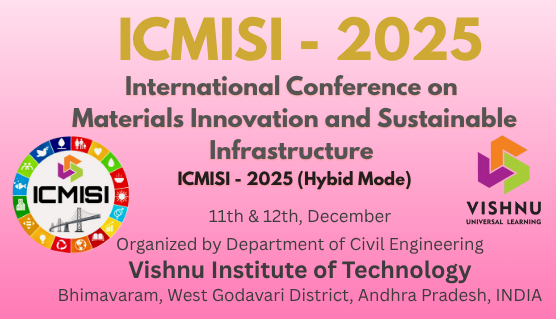
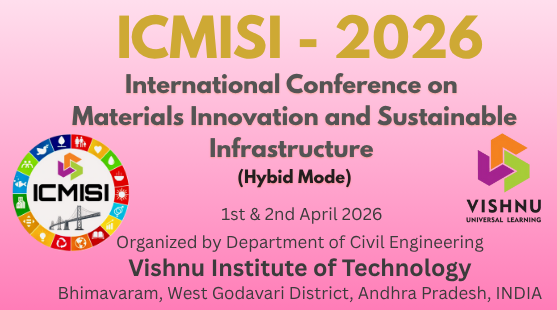
Update dates

diff --git a/src/pages/ImportantDatesPage.tsx b/src/pages/ImportantDatesPage.tsx
@@ -30,7 +30,6 @@ const DateItem: React.FC<DateItemProps> = ({
           ? "bg-red-50 border border-red-200"
           : "bg-white border border-gray-200 hover:border-conference-orange/30 hover:shadow-md"
       }`}
-
     >
       <div
         className={`p-2 rounded-full mr-4 ${
@@ -90,20 +89,16 @@ const ImportantDatesPage: React.FC = () => {
     <>
       <SEO
         title="Important Dates"
-        description="Key deadlines and important dates for ICMISI-2025, including submission deadlines, notification dates, and conference dates."
+        description="Key deadlines and important dates for ICMISI-2026, including submission deadlines, notification dates, and conference dates."
         canonical="/important-dates"
       />
       <div className="bg-gradient-to-r from-conference-green/90 to-conference-purple/90 text-white py-10">
         <div className="container mx-auto px-4 text-center">
-          <h1
-            className="text-3xl md:text-4xl font-bold mb-4"
-          >
+          <h1 className="text-3xl md:text-4xl font-bold mb-4">
             Important Dates
           </h1>
-          <p
-            className="max-w-3xl mx-auto text-lg opacity-90"
-          >
-            Key deadlines and milestones for ICMISI-2025
+          <p className="max-w-3xl mx-auto text-lg opacity-90">
+            Key deadlines and milestones for ICMISI-2026
           </p>
         </div>
       </div>
@@ -113,43 +108,45 @@ const ImportantDatesPage: React.FC = () => {
           <div className="mb-8 text-center">
             <p className="text-gray-700">
               Please note all the following important dates related to
-              ICMISI-2025. Mark your calendars and ensure timely submissions to
+              ICMISI-2026. Mark your calendars and ensure timely submissions to
               avoid any last-minute complications.
             </p>
           </div>
 
           <div className="space-y-4 mb-12">
-
-
             <DateItem
-              title="Call for papers"
-              date="May 15, 2025"
-              delay={100}
+              title="Call for Papers Announcement"
+              date="August 1, 2025"
             />
-
 
             <DateItem
               title="Submission of full-length Paper"
-              date="July 31, 2025"
-              delay={200}
+              date="October 31, 2025"
             />
 
             <DateItem
-              title="Acceptance of full-length Paper"
-              date="September 12, 2025"
-              delay={200}
+              title="Notfication of Acceptance"
+              date="December 20, 2025"
             />
 
+            <DateItem
+              title="Camera Ready Paper Submission"
+              date="January 25, 2026"
+            />
 
             <DateItem
               title="End of registration"
-              date="November 12, 2025"
-              isUpcoming={true}
-              delay={300}
+              date="Febraury 10, 2026"
+              isCritical={true}
             />
 
-          </div>
+            <DateItem
+              title="Conference Dates"
+              date="April 1-2, 2026"
+              isUpcoming={true}
 
+            />
+          </div>
         </div>
       </div>
     </>

diff --git a/src/pages/RegistrationPage.tsx b/src/pages/RegistrationPage.tsx
@@ -14,7 +14,7 @@ const RegistrationPage: React.FC = () => {
     <>
       <SEO
         title="Registration"
-        description="Register for ICMISI-2025. Early bird and regular registration fees for academicians, industry professionals, students, and attendees."
+        description="Register for ICMISI-2026. Early bird and regular registration fees for academicians, industry professionals, students, and attendees."
         canonical="/registration"
       />
       <div className="bg-gradient-to-r from-conference-orange/90 to-conference-green/90 text-white py-10">
@@ -30,7 +30,7 @@ const RegistrationPage: React.FC = () => {
             data-aos="fade-up"
             data-aos-delay="200"
           >
-            Join us at ICMISI-2025 for an enriching experience
+            Join us at ICMISI-2026 for an enriching experience
           </p>
         </div>
       </div>
@@ -42,7 +42,7 @@ const RegistrationPage: React.FC = () => {
               Registration Information
             </h2>
             <p className="text-gray-700 mb-6">
-              Registration for ICMISI-2025 includes access to all conference
+              Registration for ICMISI-2026 includes access to all conference
               sessions, conference materials, coffee breaks, lunches during the
               conference days, and a certificate of participation.
             </p>
@@ -65,10 +65,10 @@ const RegistrationPage: React.FC = () => {
                         Category
                       </th>
                       <th className="py-3 px-4 text-left font-semibold text-gray-700 border-b">
-                        INDIA (Ends on: 05 AUG 2025)
+                        INDIA (Ends on: Febraury 10, 2026)
                       </th>
                       <th className="py-3 px-4 text-left font-semibold text-gray-700 border-b">
-                        FOREIGN (Ends on: 05 AUG 2025)
+                        FOREIGN (Ends on: February 10, 2026)
                       </th>
                     </tr>
                   </thead>

diff --git a/src/pages/SponsorsPage.tsx b/src/pages/SponsorsPage.tsx
@@ -123,7 +123,7 @@ const SponsorsPage: React.FC = () => {
     <>
       <SEO 
         title="Sponsors" 
-        description="ICMISI-2025 is proudly sponsored by leading organizations in the fields of sustainable energy and advanced manufacturing systems." 
+        description="ICMISI-2026 is proudly sponsored by leading organizations in the fields of sustainable energy and advanced manufacturing systems." 
         canonical="/sponsors"
       />
       <div className="bg-gradient-to-r from-conference-green/90 to-conference-orange/90 text-white py-10">
@@ -132,7 +132,7 @@ const SponsorsPage: React.FC = () => {
             Our Sponsors
           </h1>
           <p className="max-w-3xl mx-auto text-lg opacity-90" data-aos="fade-up" data-aos-delay="200">
-            ICMISI-2025 is supported by leading organizations in industry and academia
+            ICMISI-2026 is supported by leading organizations in industry and academia
           </p>
         </div>
       </div>
@@ -146,7 +146,7 @@ const SponsorsPage: React.FC = () => {
         <div className="max-w-5xl mx-auto">
           <div className="text-center mb-12" data-aos="fade-up">
             <p className="text-gray-700 mb-8">
-              We extend our sincere gratitude to all our sponsors for their generous support in making ICMISI-2025 a success. Their contributions enable us to organize a high-quality conference and provide a platform for researchers and professionals to share knowledge and innovations.
+              We extend our sincere gratitude to all our sponsors for their generous support in making ICMISI-2026 a success. Their contributions enable us to organize a high-quality conference and provide a platform for researchers and professionals to share knowledge and innovations.
             </p>
             <div className="inline-flex flex-wrap justify-center gap-2">
               <span className="inline-flex items-center px-3 py-1 rounded-full text-sm bg-gray-200 text-gray-800">

diff --git a/src/pages/ContactPage.tsx b/src/pages/ContactPage.tsx
@@ -17,7 +17,7 @@ const ContactPage: React.FC = () => {
     <>
       <SEO
         title="Contact Us"
-        description="Contact the organizers of ICMISI-2025 for any queries related to the conference, paper submissions, registration, or sponsorship."
+        description="Contact the organizers of ICMISI-2026 for any queries related to the conference, paper submissions, registration, or sponsorship."
         canonical="/contact"
       />
       <div className="bg-gradient-to-r from-conference-orange/90 to-conference-purple/90 text-white py-10">
@@ -33,7 +33,7 @@ const ContactPage: React.FC = () => {
             data-aos="fade-up"
             data-aos-delay="200"
           >
-            Get in touch with the ICMISI-2025 organizing team
+            Get in touch with the ICMISI-2026 organizing team
           </p>
         </div>
       </div>
@@ -46,7 +46,7 @@ const ContactPage: React.FC = () => {
                 Contact Information
               </h2>
               <p className="text-gray-700 mb-8">
-                If you have any questions about ICMISI-2025, please don't
+                If you have any questions about ICMISI-2026, please don't
                 hesitate to contact us. Our team is here to assist you with any
                 queries related to paper submissions, registration, venue, or
                 other conference matters.

diff --git a/src/pages/CallForPapersPage.tsx b/src/pages/CallForPapersPage.tsx
@@ -159,7 +159,7 @@ const CallForPapersPage: React.FC = () => {
     <>
       <SEO
         title="Call for Papers"
-        description="Submit your research papers to ICMISI-2025 on topics related to sustainable energy and advanced manufacturing systems."
+        description="Submit your research papers to ICMISI-2026 on topics related to sustainable energy and advanced manufacturing systems."
         canonical="/call-for-papers"
       />
       <div className="bg-gradient-to-r from-conference-green/90 to-conference-orange/90 text-white py-10">
@@ -175,7 +175,7 @@ const CallForPapersPage: React.FC = () => {
             data-aos="fade-up"
             data-aos-delay="200"
           >
-            Submit your research contributions to ICMISI-2025
+            Submit your research contributions to ICMISI-2026
           </p>
         </div>
       </div>
@@ -187,7 +187,7 @@ const CallForPapersPage: React.FC = () => {
               Conference Tracks
             </h2>
             <p className="text-gray-700 mb-6">
-              ICMISI-2025 welcomes papers across a wide range of topics related
+              ICMISI-2026 welcomes papers across a wide range of topics related
               to sustainable energy and advanced manufacturing systems. Click on
               each track to view detailed topics:
             </p>

diff --git a/src/pages/SpeakersPage.tsx b/src/pages/SpeakersPage.tsx
@@ -165,7 +165,7 @@ const SpeakersPage: React.FC = () => {
     <>
       <SEO
         title="Speakers"
-        description="Meet the distinguished speakers of ICMISI-2025, including plenary and keynote speakers from around the world."
+        description="Meet the distinguished speakers of ICMISI-2026, including plenary and keynote speakers from around the world."
         canonical="/speakers"
       />
       <div className="bg-gradient-to-r from-conference-purple/90 to-conference-orange/90 text-white py-10">
@@ -183,7 +183,7 @@ const SpeakersPage: React.FC = () => {
         <div className="max-w-5xl mx-auto">
           <div className="text-center mb-8" data-aos="fade-up">
             <p className="text-gray-700 mb-6">
-              ICMISI-2025 will feature distinguished speakers from academia and industry, sharing insights on smart infrastructure, construction, and energy systems.
+              ICMISI-2026 will feature distinguished speakers from academia and industry, sharing insights on smart infrastructure, construction, and energy systems.
             </p>
             <div className="inline-flex flex-wrap justify-center gap-2">
               <span className="inline-flex items-center px-3 py-1 rounded-full text-sm bg-conference-purple text-white">

diff --git a/src/components/home/AboutConference.tsx b/src/components/home/AboutConference.tsx
@@ -25,8 +25,8 @@ const AboutConference: React.FC = () => {
             <p className="text-gray-700 mb-4">
               Civil Engineering department at Vishnu Institute of
               Technology-Bhimavaram is organizing International Conference on
-              Materials Innovation and Sustainable Infrastructure (ICMISI 2025)
-              on 11th & 12th, December 2025. Sustainable infrastructure is
+              Materials Innovation and Sustainable Infrastructure (ICMISI 2026)
+              on 1st & 2nd April 2026. Sustainable infrastructure is
               crucial for mitigating environmental challenges, such as climate
               change, resource depletion, and pollution.
             </p>
@@ -74,9 +74,9 @@ const AboutConference: React.FC = () => {
               ></iframe>
               <div className="absolute -bottom-6 -left-6 bg-white p-4 rounded-lg shadow-lg hidden md:block">
                 <div className="text-conference-purple font-bold text-xl">
-                  11-12
+                 1st - 2nd
                 </div>
-                <div className="text-gray-700">December 2025</div>
+                <div className="text-gray-700">April 2026</div>
               </div>
             </div>
           </div>

diff --git a/src/pages/VenuePage.tsx b/src/pages/VenuePage.tsx
@@ -41,7 +41,7 @@ const VenuePage: React.FC = () => {
     <>
       <SEO
         title="Venue"
-        description="ICMISI-2025 will be held at Vishnu Institute of Technology (VIT), Bhimavaram, Andhra Pradesh, India from 11th–13th September 2025."
+        description="ICMISI-2026 will be held at Vishnu Institute of Technology (VIT), Bhimavaram, Andhra Pradesh, India from 1st & 2nd April 2026."
         canonical="/venue"
       />
       <div className="bg-gradient-to-r from-conference-orange/90 to-conference-purple/90 text-white py-10">
@@ -73,7 +73,7 @@ const VenuePage: React.FC = () => {
                 </h2>
               </div>
               <p className="text-gray-700 mb-4">
-                ICMISI-2025 will be held at the beautiful campus of Vishnu Institute of Technology (VIT), located in Bhimavaram, Andhra Pradesh, India.
+                ICMISI-2026 will be held at the beautiful campus of Vishnu Institute of Technology (VIT), located in Bhimavaram, Andhra Pradesh, India.
               </p>
               <p className="text-gray-700 mb-4">
                 The venue provides modern conference facilities, comfortable accommodations, and a serene environment perfect for academic discussions and networking.

diff --git a/index.html b/index.html
@@ -5,9 +5,9 @@
   <meta charset="UTF-8" />
   <link rel="icon" type="image" href="/icmisi.png" />
   <meta name="viewport" content="width=device-width, initial-scale=1.0" />
-  <title>ICMISI-2025 </title>
+  <title>ICMISI-2026 </title>
   <meta name="description"
-    content="Civil Engineering department at Vishnu Institute of Technology-Bhimavaram is organizing International Conference on Materials Innovation and Sustainable Infrastructure (ICMISI 2025) on 11th & 12th, December 2025. Sustainable infrastructure is crucial for mitigating environmental challenges, such as climate change, resource depletion, and pollution." />
+    content="Civil Engineering department at Vishnu Institute of Technology-Bhimavaram is organizing International Conference on Materials Innovation and Sustainable Infrastructure (ICMISI 2026) on 1st & 2nd April 2026. Sustainable infrastructure is crucial for mitigating environmental challenges, such as climate change, resource depletion, and pollution." />
   <meta name="keywords"
     content="ICMISI, Conference, Materials Innovation and Sustainable Infrastructure, Advanced Manufacturing, VITB, Engineering Conference" />
   <link rel="preconnect" href="https://fonts.googleapis.com">

diff --git a/src/components/layout/Footer.tsx b/src/components/layout/Footer.tsx
@@ -14,14 +14,14 @@ const Footer: React.FC = () => {
           <div>
             <div className="flex items-center gap-2 mb-4">
               <LightbulbIcon className="w-6 h-6 text-pink-400" />
-              <h2 className="text-xl font-bold">ICMISI-2025</h2>
+              <h2 className="text-xl font-bold">ICMISI-2026</h2>
             </div>
             <p className="text-gray-300 mb-4">
               International Conference on Materials Innovation and Sustainable Infrastructure
             </p>
             <div className="flex items-center gap-2 text-gray-300 mb-2">
               <Calendar size={16} />
-              <span>11th–12th December 2025</span>
+              <span>1st & 2nd April 2026</span>
             </div>
             <div className="flex items-start gap-2 text-gray-300">
               <MapPin size={16} className="mt-1 flex-shrink-0" />

diff --git a/src/pages/committee/CommitteePage.tsx b/src/pages/committee/CommitteePage.tsx
@@ -13,7 +13,7 @@ const CommitteePage: React.FC = () => {
     <>
       <SEO 
         title="Committee" 
-        description="Meet the Advisory, Technical, and Organizing Committees of ICMISI-2025." 
+        description="Meet the Advisory, Technical, and Organizing Committees of ICMISI-2026." 
         canonical="/committee"
       />
       <div className="bg-gradient-to-r from-conference-purple/90 to-conference-orange/90 text-white py-16">
@@ -22,7 +22,7 @@ const CommitteePage: React.FC = () => {
             Conference Committees
           </h1>
           <p className="max-w-3xl mx-auto text-lg opacity-90" >
-            Meet the distinguished experts and organizers behind ICMISI-2025
+            Meet the distinguished experts and organizers behind ICMISI-2026
           </p>
         </div>
       </div>

diff --git a/src/components/SEO.tsx b/src/components/SEO.tsx
@@ -10,13 +10,13 @@ interface SEOProps {
 
 const SEO: React.FC<SEOProps> = ({ 
   title, 
-  description = "ICMISI-2025 is an international conference on Materials Innovation and Sustainable Infrastructure organized by the Civil Engineering department at Vishnu Institute of Technology, Bhimavaram.",
+  description = "ICMISI-2026 is an international conference on Materials Innovation and Sustainable Infrastructure organized by the Civil Engineering department at Vishnu Institute of Technology, Bhimavaram.",
   keywords = "ICMISI, Conference, Sustainable Energy, Advanced Manufacturing, VIT, Engineering Conference",
   canonical
 }) => {
   const siteTitle = title 
-    ? `${title} | ICMISI-2025` 
-    : "ICMISI-2025";
+    ? `${title} | ICMISI-2026` 
+    : "ICMISI-2026";
 
   return (
     <Helmet>
